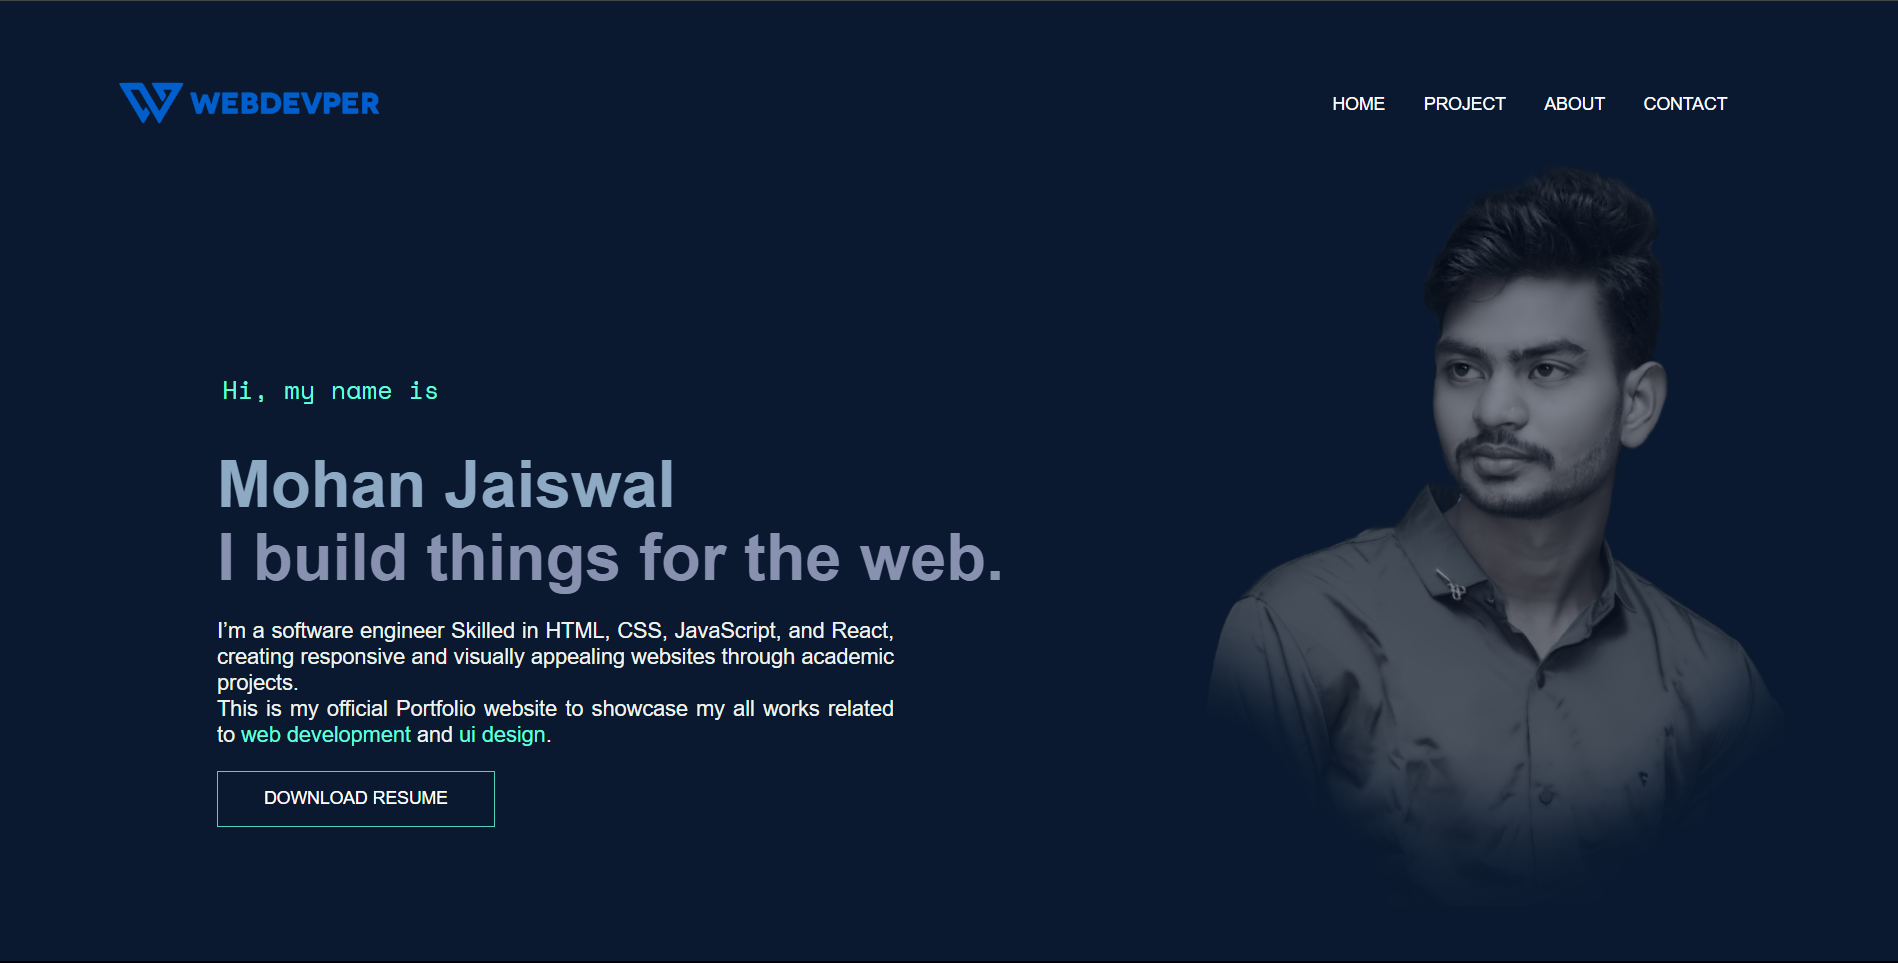
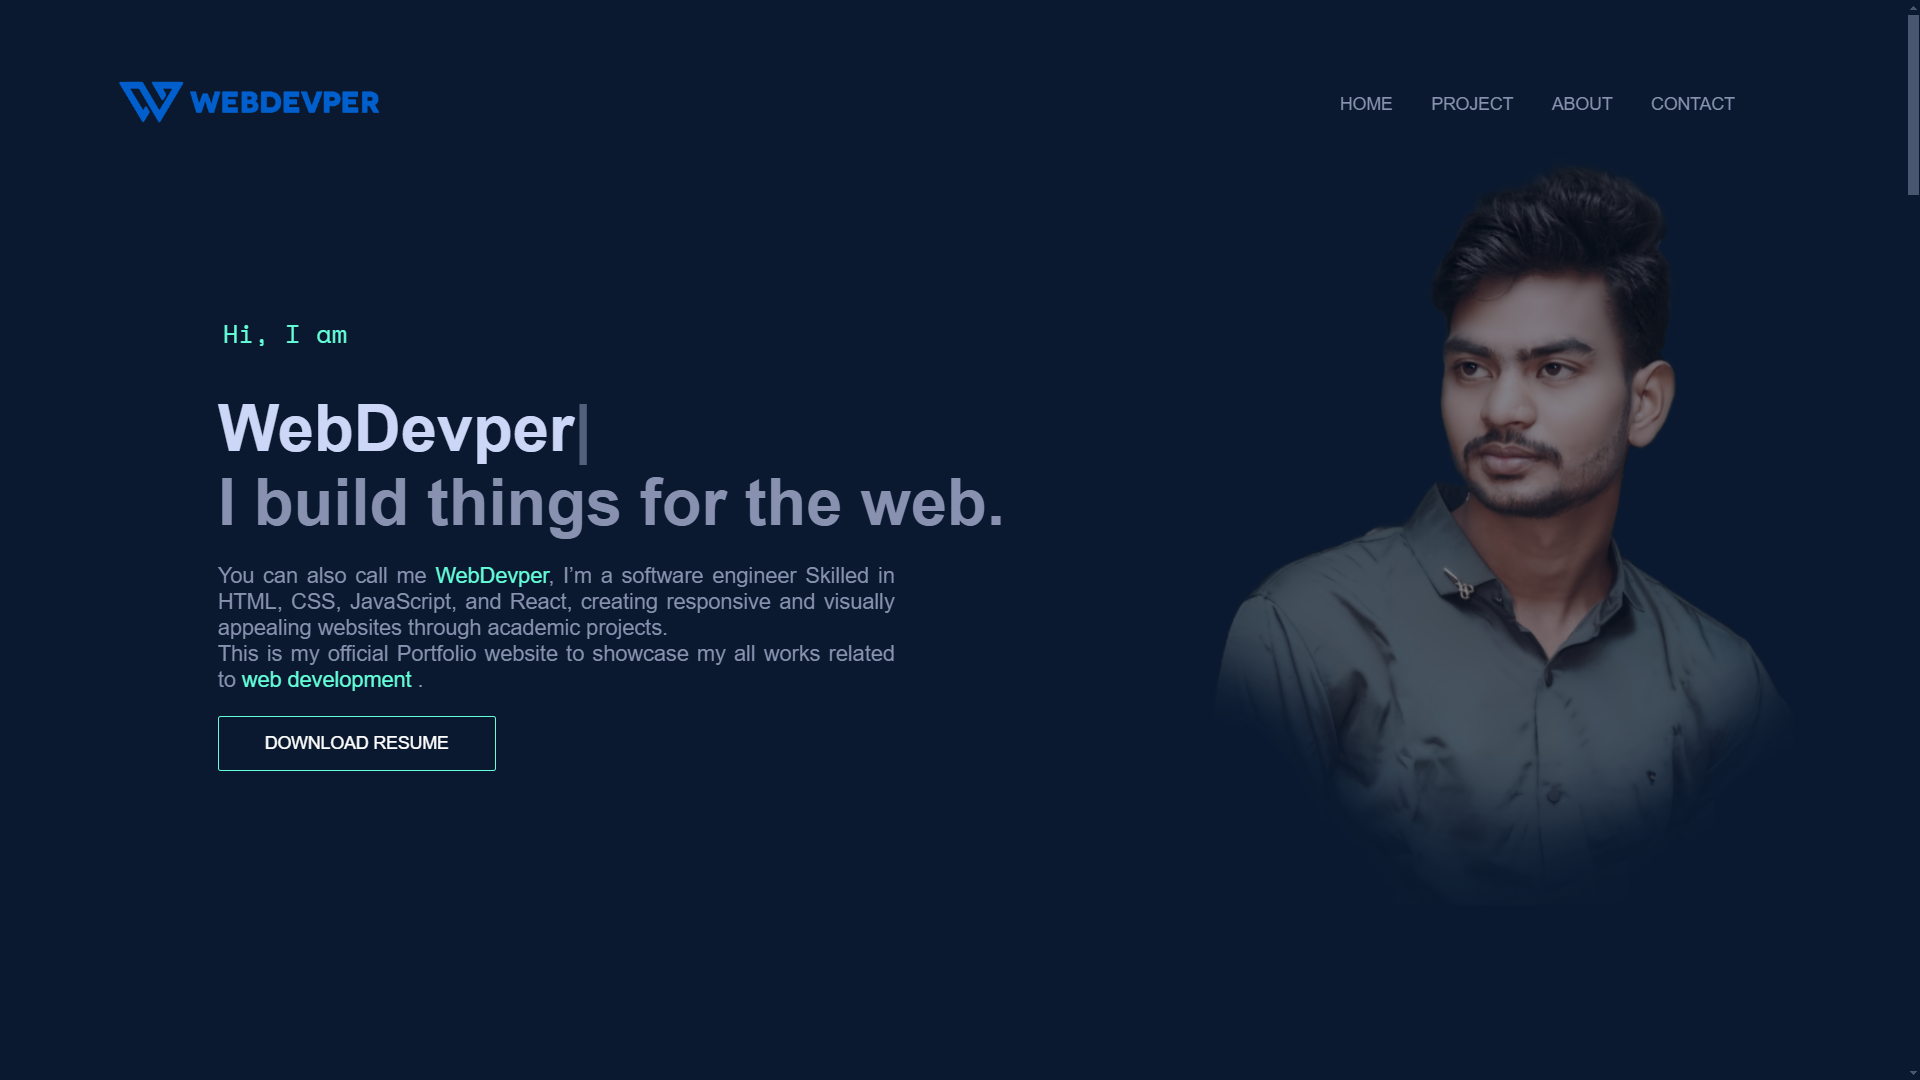
add link

diff --git a/index.html b/index.html
@@ -36,7 +36,7 @@
 
             <div class="home-box box-1 ">
 
-                <h1>Hi, my name is</h1>
+                <h1>Hi, I am</h1>
                 <h2>
                     <div class="name-eft"><span id="element"></span></div>
                 </h2>
@@ -332,7 +332,7 @@
                         <input type="text" name="name" placeholder="Enter Your Name" required>
                         <input type="email" name="email" placeholder="Enter Email adress" required>
                         <input type="text" name="subject" placeholder="Enter Your Subject" required>
-                        <textarea rows="8" name="message" placeholder="message" required></textarea>
+                        <textarea rows="8" name="message" placeholder="Message" required></textarea>
                         <div class="send-btn">
                             <button type="submit" class="hero-btn  red-btn">Send Message</button>
                         </div>

diff --git a/style.css b/style.css
@@ -13,7 +13,7 @@
 * {
     margin: 0;
     padding: 0;
-    font-family: "Open Sans", "Poppins", sans-serif;
+    font-family: "Poppins", sans-serif;
     box-sizing: border-box;
 }
 
@@ -537,10 +537,13 @@ nav .fa {
 
 
 .project-cont .project-decs {
-    background: #112240;
+    background: #11224069;
     padding: 30px;
     color: var(--text-color);
     width: 100%;
+    backdrop-filter: blur(17px);
+    border: 0.1px solid #8892b07a;
+    border-radius: 5px;
 }
 
 .project-img {
@@ -562,6 +565,7 @@ nav .fa {
     width: 100%;
     transition: 0.5s ease;
     filter: blur(1px) brightness(0.6);
+    border-radius: 5px;
 }
 
 
@@ -642,7 +646,8 @@ nav .fa {
 
     .project-cont {
         grid-column: 1 / -1;
-        padding: 10%;
+        margin: 10% 0;
+        padding: 0 5%;
     }
 
     .project-header span,
